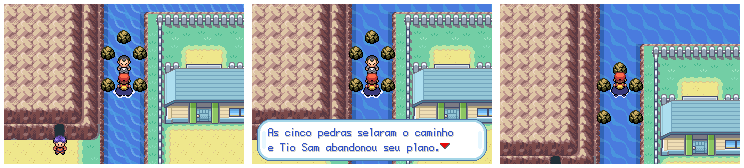
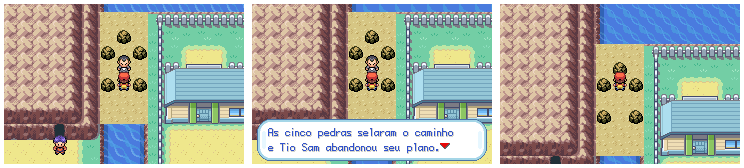
Add dry terrain to the final arena

Changed region(s): [[0.8038, 0.0298, 1.0, 0.9821], [0.1237, 0.0595, 0.2164, 0.744], [0.4637, 0.0595, 0.5565, 0.7143]]

diff --git a/tools/build_rare_lands_ground.py b/tools/build_rare_lands_ground.py
@@ -1,0 +1,22 @@
+"""Replace the inherited water-looking final corridor with dry rare-land ground."""
+
+from pathlib import Path
+import struct
+
+ROOT = Path(__file__).resolve().parents[1]
+MAP = ROOT / "pokefirered/data/layouts/CeruleanCity/map.bin"
+WIDTH = 48
+HEIGHT = 40
+GROUND_METATILE = 0x0D9
+CELLS = {(x, y) for x in range(4, 7) for y in range(5, 12)}
+EXPECTED_OLD = {0x128, 0x12A, 0x12B, 0x12C, GROUND_METATILE}
+
+blocks = list(struct.unpack(f"<{WIDTH * HEIGHT}H", MAP.read_bytes()))
+for x, y in sorted(CELLS):
+    index = y * WIDTH + x
+    old_metatile = blocks[index] & 0x3FF
+    assert old_metatile in EXPECTED_OLD, (x, y, hex(blocks[index]))
+    blocks[index] = (blocks[index] & 0xFC00) | GROUND_METATILE
+
+MAP.write_bytes(struct.pack(f"<{WIDTH * HEIGHT}H", *blocks))
+print(f"Installed dry metatile {GROUND_METATILE:#x} in {len(CELLS)} rare-land cells; attributes preserved.")

diff --git a/README.md b/README.md
@@ -38,7 +38,7 @@ Os caminhos `project/docs`, `project/tools` ou `project/assets` nos documentos d
 
 A intro tem capa amazônica própria, Bia e Tio Sam com novos retratos, apresentação de Capivágua e história das cinco pedras. Escolha de aparência/nome e save/Continue foram testados no mGBA. Veja os [prints da intro](docs/screenshots/intro/preview.png) e o [relatório de validação](docs/intro-validation.json). Parte da interface, personagens e música ainda usa a base original.
 
-Os três parceiros percorreram a campanha mínima na ROM atual: Floresta Amazônica, Campo Cerrado, Caatinga, Mata Atlântica, Pantanal e Terras Raras. As seis batalhas, as cinco pedras distintas, a recuperação entre habitats, o confronto final com dois adversários, o desfecho mínimo e save/Continue passaram nos três ramos (`docs/mission-current-validation.json` até `docs/campaign-ending-validation.json`). Derrota, recuperação, persistência, retorno e nova tentativa também passaram no Pantanal e no chefe nos três ramos, com HP=1 preparado artificialmente (`docs/fifth-habitat-defeat-validation.json` e `docs/campaign-final-defeat-validation.json`). As Terras Raras ganharam um círculo interativo com cinco marcos, ainda usando gráfico provisório ([capturas](docs/screenshots/rare-stone-circle/preview.png)). Veja também a [Mata Atlântica](docs/screenshots/fourth-habitat/preview.png), o [Pantanal](docs/screenshots/fifth-habitat/preview.png), a [derrota/retorno](docs/screenshots/final-defeat/preview.png) e o [desfecho](docs/screenshots/campaign-ending/preview.png). O HANDOFF identifica hashes e limites.
+Os três parceiros percorreram a campanha mínima na ROM atual: Floresta Amazônica, Campo Cerrado, Caatinga, Mata Atlântica, Pantanal e Terras Raras. As seis batalhas, as cinco pedras distintas, a recuperação entre habitats, o confronto final com dois adversários, o desfecho mínimo e save/Continue passaram nos três ramos (`docs/mission-current-validation.json` até `docs/campaign-ending-validation.json`). Derrota, recuperação, persistência, retorno e nova tentativa também passaram no Pantanal e no chefe nos três ramos, com HP=1 preparado artificialmente (`docs/fifth-habitat-defeat-validation.json` e `docs/campaign-final-defeat-validation.json`). As Terras Raras ganharam um círculo interativo com cinco marcos sobre uma faixa de solo seco, ainda usando gráficos provisórios ([capturas](docs/screenshots/rare-lands-ground/preview.png) e [relatório](docs/rare-lands-ground-validation.json)). Veja também a [Mata Atlântica](docs/screenshots/fourth-habitat/preview.png), o [Pantanal](docs/screenshots/fifth-habitat/preview.png), a [derrota/retorno](docs/screenshots/final-defeat/preview.png) e o [desfecho](docs/screenshots/campaign-ending/preview.png). O HANDOFF identifica hashes e limites.
 
 Uma captura natural de Tatupedra com Capivágua e save/Continue passou (`docs/capture-validation.json`), incluindo consumo da cápsula. O envio de uma captura ao PC com equipe cheia passou em preparação artificial (`docs/full-party-capture-validation.json`). O posto perto do cuidador tem um terminal próprio de madeira e tela verde ([arte e conversão](assets/amazon/storage/README.md)) e permite guardar e retirar parceiros. A campanha mínima existe, mas não é uma versão final: os quatro habitats posteriores à floresta inicial e quase todo o cenário das Terras Raras ainda usam mapas e arte provisórios; o chefe, o balanceamento e o encerramento precisam de acabamento.
 

diff --git a/HANDOFF.md b/HANDOFF.md
@@ -19,7 +19,15 @@ Meta de planejamento até 5 de dezembro de 2026: uma campanha mínima jogável d
 - Dias 16–17: acesso às Terras Raras, confronto e desfecho mínimo.
 - Dias 18–20: percurso integral com os três parceiros, balanceamento essencial, save/Continue e correções bloqueadoras.
 
-Progresso ao fim da rotina 6: os cinco habitats, as cinco pedras, o acesso às Terras Raras, o confronto com Tio Sam e um desfecho mínimo formam uma campanha funcional com os três parceiros. A cadeia integral foi regenerada desde jogo novo após o primeiro elemento de cenário próprio das Terras Raras e persistiu por save/Continue após cada etapa. Derrota, recuperação, persistência, retorno pelos habitats e nova tentativa continuam aprovados no Pantanal e no chefe nos três ramos. Restam derrota nos três agentes intermediários anteriores, refinamento de balanceamento, substituição dos demais mapas/arte provisórios e polimento do encerramento. A meta de 5 de dezembro continua plausível, mas não é garantia de jogo completo.
+Progresso ao fim da rotina 7: os cinco habitats, as cinco pedras, o acesso às Terras Raras, o confronto com Tio Sam e um desfecho mínimo formam uma campanha funcional com os três parceiros. A cadeia integral foi regenerada desde jogo novo após a troca do corredor azul por solo seco e persistiu por save/Continue após cada etapa. Derrota, recuperação, persistência, retorno pelos habitats e nova tentativa continuam aprovados no Pantanal e no chefe nos três ramos. Restam derrota nos três agentes intermediários anteriores, refinamento de balanceamento, substituição dos demais mapas/arte provisórios e polimento do encerramento. A meta de 5 de dezembro continua plausível, mas não é garantia de jogo completo.
+
+## Solo seco sob o círculo final — rotina 7
+
+O corredor imediato das Terras Raras deixou de parecer uma passagem sobre água. As 21 células de `x=4..6`, `y=5..11` agora usam o metatile seco `0x0D9`, já disponível no tileset compartilhado com a Route 4/Pantanal. O conversor idempotente `tools/build_rare_lands_ground.py` altera somente o ID visual e preserva os bits de colisão e elevação de cada célula. Entrada `(5,9)`, Tio Sam `(5,8)`, cinco marcos, scripts e eixo vertical permaneceram nas mesmas coordenadas.
+
+Build PASS, SHA-1 `0a1b55c94bebf8d1d0560ff283e4388f3594fe75`. A campanha inteira foi refeita desde jogos novos com Capivágua, Ararafogo e Tatupedra: 18 vitórias, cinco pedras, 15 interações nos marcos, desfecho e save/Continue depois de cada etapa passaram sem escrita de memória ou savestate. As três derrotas/revanche no Pantanal e as três no chefe também passaram; somente essas regressões preparam HP=1 artificialmente. Relatório: `docs/rare-lands-ground-validation.json`; captura revisada: `docs/screenshots/rare-lands-ground/preview.png`.
+
+Limites: é uma faixa estreita que reutiliza textura herdada, não arte própria das Terras Raras. Água, prédio, penhasco, música e rochas continuam provisórios. Próximo passo funcional: ampliar a identidade visual do entorno imediato sem mover o eixo validado; depois substituir o cenário herdado da Mata Atlântica e do Pantanal. Derrotas no Cerrado, Caatinga e Mata Atlântica também permanecem sem regressão dedicada.
 
 ## Círculo das cinco pedras nas Terras Raras — rotina 6
 

diff --git a/LEIA-PRIMEIRO.md b/LEIA-PRIMEIRO.md
@@ -38,7 +38,7 @@ Os caminhos `project/docs`, `project/tools` ou `project/assets` nos documentos d
 
 A intro tem capa amazônica própria, Bia e Tio Sam com novos retratos, apresentação de Capivágua e história das cinco pedras. Escolha de aparência/nome e save/Continue foram testados no mGBA. Veja os [prints da intro](docs/screenshots/intro/preview.png) e o [relatório de validação](docs/intro-validation.json). Parte da interface, personagens e música ainda usa a base original.
 
-Os três parceiros percorreram a campanha mínima na ROM atual, dos cinco habitats às Terras Raras. As seis batalhas com curva progressiva, as cinco pedras distintas, a recuperação entre habitats, o confronto final com dois adversários, o desfecho mínimo e save/Continue passaram nos três ramos (`docs/mission-current-validation.json` até `docs/campaign-ending-validation.json`). Derrota, recuperação, persistência, retorno e nova tentativa também passaram no Pantanal e no chefe com HP=1 artificial (`docs/fifth-habitat-defeat-validation.json` e `docs/campaign-final-defeat-validation.json`). As Terras Raras têm um primeiro círculo interativo das cinco pedras, ainda com gráficos herdados (`docs/rare-stone-circle-validation.json`); o HANDOFF identifica hashes e limites.
+Os três parceiros percorreram a campanha mínima na ROM atual, dos cinco habitats às Terras Raras. As seis batalhas com curva progressiva, as cinco pedras distintas, a recuperação entre habitats, o confronto final com dois adversários, o desfecho mínimo e save/Continue passaram nos três ramos (`docs/mission-current-validation.json` até `docs/campaign-ending-validation.json`). Derrota, recuperação, persistência, retorno e nova tentativa também passaram no Pantanal e no chefe com HP=1 artificial (`docs/fifth-habitat-defeat-validation.json` e `docs/campaign-final-defeat-validation.json`). As Terras Raras têm um primeiro círculo interativo das cinco pedras sobre solo seco, ainda com gráficos herdados (`docs/rare-lands-ground-validation.json`); o HANDOFF identifica hashes e limites.
 
 Uma captura natural de Tatupedra com Capivágua e save/Continue passou (`docs/capture-validation.json`), incluindo consumo da cápsula. O envio de uma captura ao PC com equipe cheia passou em preparação artificial (`docs/full-party-capture-validation.json`). O posto perto do cuidador tem um terminal próprio de madeira e tela verde ([arte e conversão](assets/amazon/storage/README.md)) e permite guardar e retirar parceiros. A campanha mínima ainda não é uma versão final: os quatro habitats posteriores à floresta inicial e quase todo o cenário das Terras Raras reutilizam mapas e arte provisórios; chefe, balanceamento e encerramento precisam de acabamento.
 

diff --git a/tests/emulator/README.md b/tests/emulator/README.md
@@ -120,7 +120,7 @@ Para rodar somente Capivágua, acrescente `--partners capivagua` e use uma pasta
 
 Depois de gerar os três saves com `check_mission.py`, execute `check_second_habitat.py` uma vez por parceiro, passando `--first-mission-results`, `--partner` e uma pasta de saída vazia. Encadeie então `check_third_habitat.py`, `check_fourth_habitat.py`, `check_fifth_habitat.py` e `check_campaign_ending.py`, sempre usando o resultado da etapa anterior, o mesmo parceiro e outra saída vazia.
 
-Os testes percorrem Campo Cerrado, Caatinga, Mata Atlântica, Pantanal e Terras Raras, conferem os cinco itens especiais, exigem HP máximo depois de cada recompensa, enfrentam os dois adversários de Tio Sam e repetem save/Continue após cada pedra e após o desfecho. `check_campaign_ending.py` também interage com os cinco marcos das pedras, antes e depois do chefe, exigindo que cada mensagem libere os controles. Todos exigem fixtures do mesmo hash da ROM, preservam a origem e não habilitam escritas nem usam savestates. Estes testes de vitória não cobrem derrota, mochila cheia, retorno entre todos os mapas, estratégias otimizadas, balanceamento final, créditos ou arte final; as duas regressões de derrota cobertas estão descritas separadamente abaixo.
+Os testes percorrem Campo Cerrado, Caatinga, Mata Atlântica, Pantanal e Terras Raras, conferem os cinco itens especiais, exigem HP máximo depois de cada recompensa, enfrentam os dois adversários de Tio Sam e repetem save/Continue após cada pedra e após o desfecho. `check_campaign_ending.py` também percorre a faixa de solo seco e interage com os cinco marcos das pedras, antes e depois do chefe, exigindo que cada mensagem libere os controles. Todos exigem fixtures do mesmo hash da ROM, preservam a origem e não habilitam escritas nem usam savestates. Estes testes de vitória não cobrem derrota, mochila cheia, retorno entre todos os mapas, estratégias otimizadas, balanceamento final, créditos ou arte final; as duas regressões de derrota cobertas estão descritas separadamente abaixo.
 
 ## Derrota no chefe e nova tentativa
 
